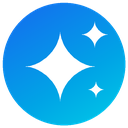
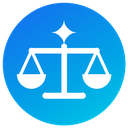
design(tabs): the raised AI button shows the scales of justice with a spark above them

Changed region(s): [[0.125, 0.1562, 0.875, 0.7812]]

diff --git a/DESIGN.md b/DESIGN.md
@@ -45,7 +45,7 @@ iOS (flags on) is a glass-on-colour system.
 - **Cards** are frosted panes, not real glass (a native glass view per list row is too heavy): `glassFill` + `glassLine`, a short bright
   top sheen, no shadow (a shadow would show through the translucent fill). Card-shaped surfaces that are not `<Card>` (rows, panels,
   inputs) use the same two tokens; `surface` stays for opaque things (thumbs, sheets' content). Do not nest cards.
-- The tab bar is the system `NativeTabs` bar; the app's theme is handed to iOS (`Appearance.setColorScheme`) so it matches. The AI tab is a raised button: its slot in the system bar is an empty image, and `AiRaisedButton` stands in it — a brand-gradient disc (`assets/tabs/ai-orb*.png`) rising above the bar with no caption and a soft ring that breathes out every few seconds (off with Reduce Motion). The AI tab is always the middle slot (an empty disabled `gap` slot beside it when the tab count is even), so the button is centred on the screen; its height constants are at the top of the file. Glows, aurora and glass spheres were tried and dropped as too flashy for the calm, exact tone.
+- The tab bar is the system `NativeTabs` bar; the app's theme is handed to iOS (`Appearance.setColorScheme`) so it matches. The AI tab is a raised button: its slot in the system bar is an empty image, and `AiRaisedButton` stands in it — a brand-gradient disc with white scales of justice and a spark above them (`assets/tabs/ai-orb*.png`) rising above the bar with no caption and a soft ring that breathes out every few seconds (off with Reduce Motion). The AI tab is always the middle slot (an empty disabled `gap` slot beside it when the tab count is even), so the button is centred on the screen; its height constants are at the top of the file. Glows, aurora and glass spheres were tried and dropped as too flashy for the calm, exact tone.
 
 ## Materials (Android — Material 3 Expressive)
 
